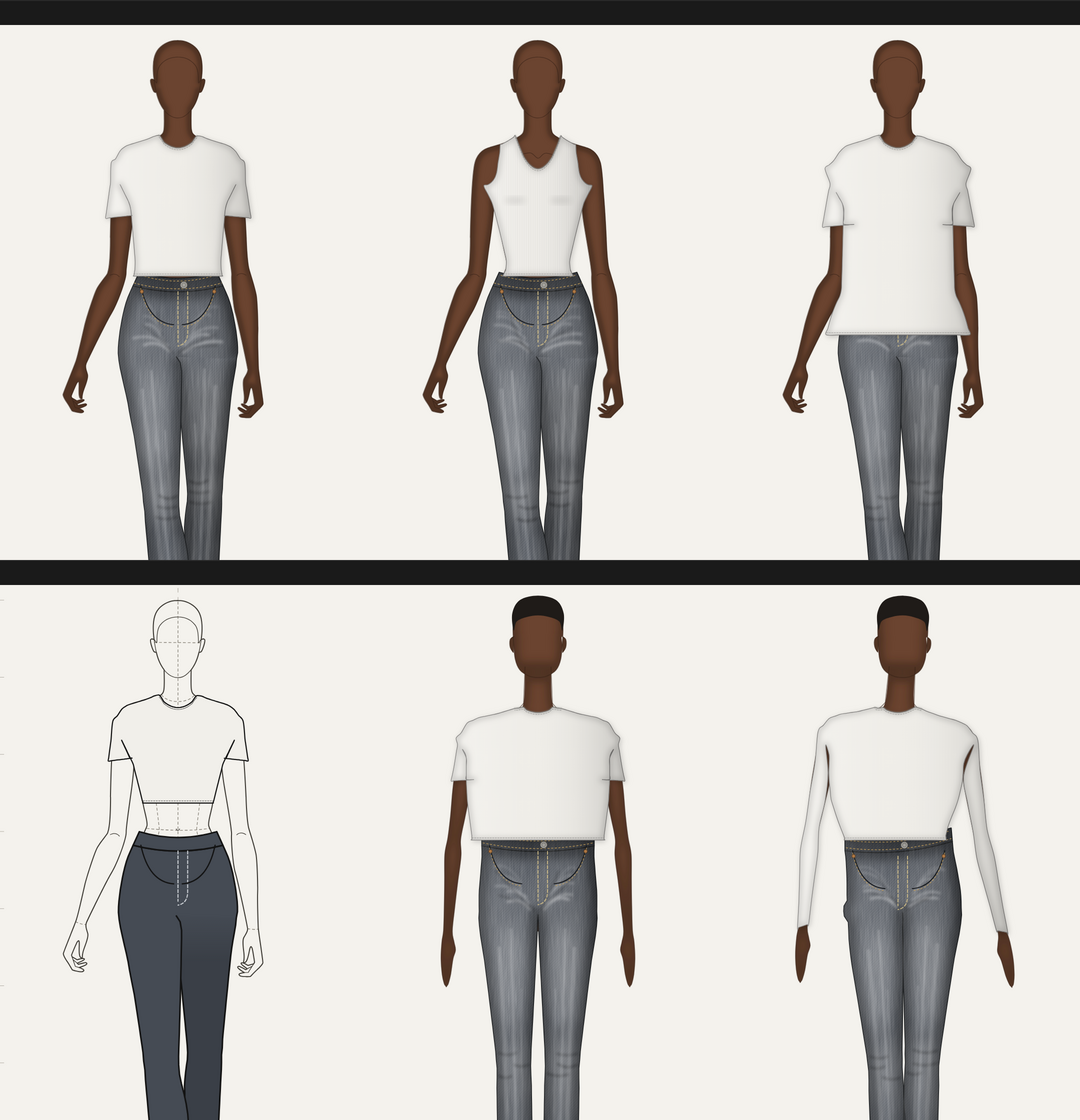
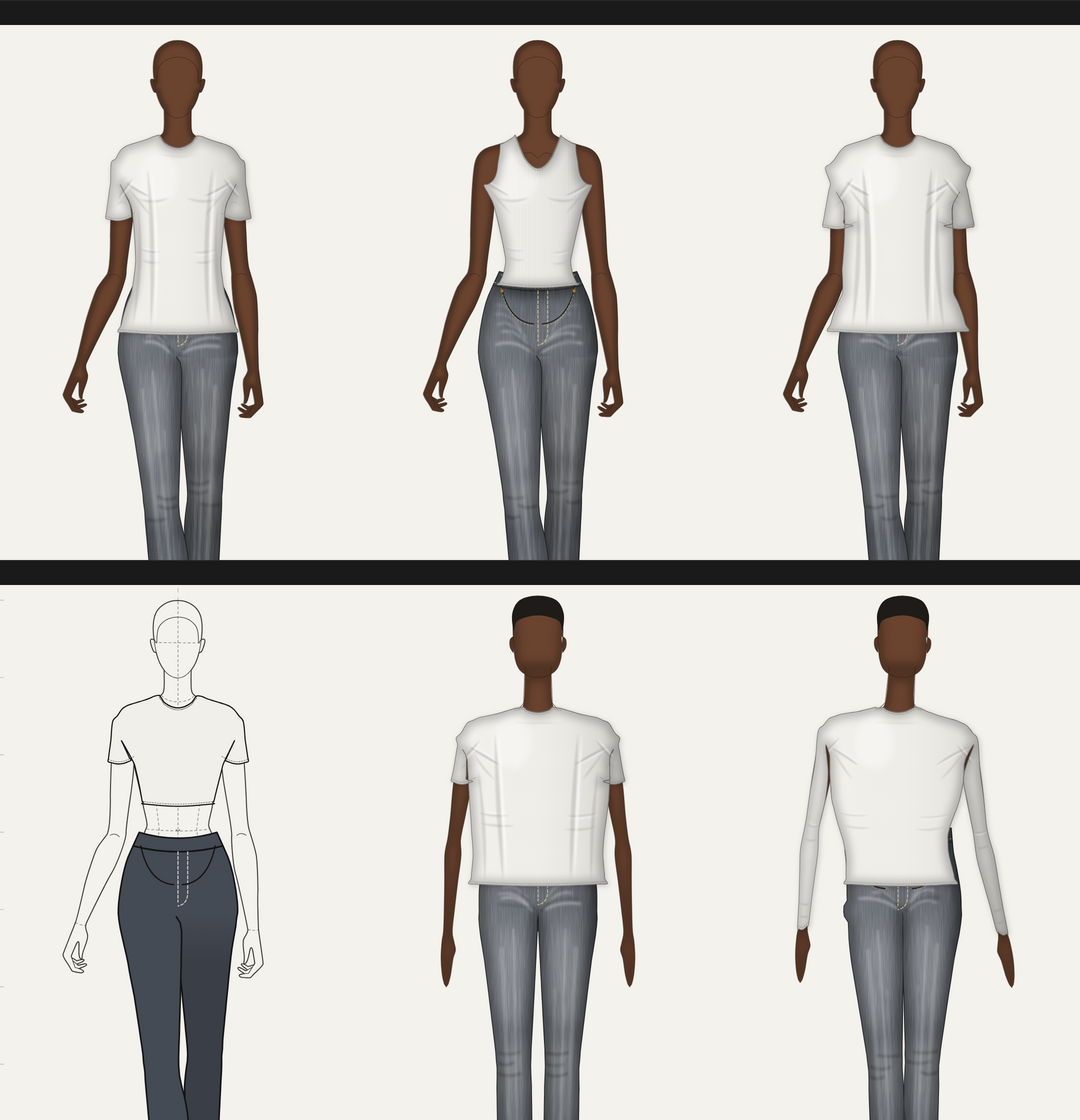
Tops lose the box shape
Curved body and sleeve hems, side seams that bow in and round off at the
hem, tapered fold shapes at the underarm, bust, waist, sleeves and elbows
that follow the body, drape folds on looser fits, and round shading so the
torso reads as a body. Tees and long sleeves default to hip length.

Claude-Session: https://claude.ai/code/session_01N4gmdzgjq2mCxibreUu9UH

diff --git a/src/components/TopView.tsx b/src/components/TopView.tsx
@@ -3,11 +3,40 @@ import { WASHES, isDarkWash, type Garment } from '../model/garment';
 import { smooth, type TorsoProfile, type Vec } from '../model/figure';
 import { stiffOf, topForward, topShape, torsoPt } from '../model/top';
 import { mix } from '../model/color';
+import { topFolds } from '../model/topFolds';
+import { uv } from '../model/top';
 import { polyPath, ripPoly, ripThreads, wornPatch } from '../model/rips';
 import { FabricDefs, fabricId } from './FabricDefs';
 
 const ACCENT = '#C8102E';
 const f1 = (n: number) => n.toFixed(1);
+/** Tapered ribbon along a curve: pointed ends, w wide in the middle. */
+function ribbon(c: Vec[], w: number, shift = 0): string {
+  if (c.length < 2) return '';
+  const L: Vec[] = [], R: Vec[] = [];
+  for (let i = 0; i < c.length; i++) {
+    const a = c[Math.max(0, i - 1)], b = c[Math.min(c.length - 1, i + 1)];
+    const dx = b.x - a.x, dy = b.y - a.y;
+    const len = Math.hypot(dx, dy) || 1;
+    const nx = dy / len, ny = -dx / len;
+    const f = i / (c.length - 1);
+    const hw = (w / 2) * Math.pow(Math.sin(Math.PI * f), 0.8);
+    L.push({ x: c[i].x + nx * (hw + shift), y: c[i].y + ny * (hw + shift) });
+    R.push({ x: c[i].x - nx * (hw - shift), y: c[i].y - ny * (hw - shift) });
+  }
+  return smooth([...L, ...R.reverse()], true);
+}
+
+/** Sample a 3-point fold as a smooth curve. */
+function sample(p: Vec[]): Vec[] {
+  const out: Vec[] = [];
+  for (let i = 0; i <= 14; i++) {
+    const k = i / 14;
+    out.push({ x: (1 - k) * (1 - k) * p[0].x + 2 * (1 - k) * k * p[1].x + k * k * p[2].x, y: (1 - k) * (1 - k) * p[0].y + 2 * (1 - k) * k * p[1].y + k * k * p[2].y });
+  }
+  return out;
+}
+
 const line = (pts: Vec[], closed = false) => (pts.length ? 'M' + pts.map((p) => `${f1(p.x)},${f1(p.y)}`).join(' L') + (closed ? ' Z' : '') : '');
 
 interface Props {
@@ -34,6 +63,9 @@ export const TopView = memo(function TopView({ g, t, rendered, shading, selected
   const xs = shape.outline.map((p) => p.x);
   const x0 = Math.min(...xs), x1 = Math.max(...xs);
   const fabricG = { ...g, points: shape.outline };
+  const hemP = g.points.find((p) => p.key === 'hemL');
+  const folds = g.top ? topFolds(g.id, g.top, hemP ? uv(hemP).v : 1, bust) : [];
+  const shadeC = mix(base, '#000000', dark ? 0.7 : 0.55);
   const fill = rendered ? `url(#${fabricId(g)})` : base;
   const holes = g.holes.map((h, i) => {
     const c = topForward(t, { x: h.x, y: h.y }, stiff);
@@ -57,6 +89,9 @@ export const TopView = memo(function TopView({ g, t, rendered, shading, selected
         <filter id={`tb-${uid}`} x="-20%" y="-20%" width="140%" height="140%">
           <feGaussianBlur stdDeviation={4} />
         </filter>
+        <filter id={`tf-${uid}`} x="-30%" y="-30%" width="160%" height="160%">
+          <feGaussianBlur stdDeviation={0.9} />
+        </filter>
         <filter id={`ts-${uid}`} x="-30%" y="-30%" width="160%" height="160%">
           <feGaussianBlur stdDeviation={1.8} />
         </filter>
@@ -73,23 +108,25 @@ export const TopView = memo(function TopView({ g, t, rendered, shading, selected
           <g clipPath={`url(#${clip})`} pointerEvents="none">
             <rect x={0} y={0} width={600} height={1000} fill={`url(#tl-${uid})`} />
             <path d={body} fill="none" stroke="#000" strokeWidth={7} opacity={dark ? 0.36 : 0.16} filter={`url(#tb-${uid})`} style={{ mixBlendMode: 'multiply' }} />
-            {bust && stiff < 0.3 && (
-              <g fill="#000" opacity={dark ? 0.18 : 0.08} filter={`url(#tb-${uid})`}>
-                <ellipse cx={F(-0.5, 0.47).x} cy={F(-0.5, 0.47).y} rx={14} ry={5} />
-                <ellipse cx={F(0.5, 0.47).x} cy={F(0.5, 0.47).y} rx={14} ry={5} />
-              </g>
-            )}
-            {/* tension folds from the underarm, and drape on looser fits */}
-            <g fill="none" stroke="#000" strokeLinecap="round" opacity={dark ? 0.32 : 0.2} filter={`url(#ts-${uid})`}>
-              {g.top?.tuck && <path d={line([F(-0.6, 1.02), F(-0.3, 0.98), F(0, 1.03), F(0.3, 0.98), F(0.6, 1.02)])} strokeWidth={2} />}
-            </g>
+            {/* round shading: darker toward the sides so the torso reads as a body */}
+            <path d={body} fill="none" stroke="#000" strokeWidth={22} opacity={dark ? 0.22 : 0.1} filter={`url(#tb-${uid})`} style={{ mixBlendMode: 'multiply' }} />
+            <ellipse cx={F(-0.35, 0.3).x} cy={F(-0.35, 0.3).y} rx={26} ry={34} fill="#fff" opacity={dark ? 0.08 : 0.35} filter={`url(#tb-${uid})`} />
+            {folds.map((fd, i) => {
+              const c = sample(fd.pts.map((p) => topForward(t, p, stiff)));
+              return (
+                <g key={i}>
+                  <path d={ribbon(c, fd.w)} fill={shadeC} opacity={fd.o * (dark ? 1.3 : 1)} filter={`url(#tf-${uid})`} />
+                  {fd.ridge && <path d={ribbon(c, fd.w * 0.7, fd.w * 0.9)} fill="#fff" opacity={dark ? 0.1 : 0.55} filter={`url(#tf-${uid})`} />}
+                </g>
+              );
+            })}
           </g>
         )}
         {/* neckline binding, sleeve and body hems */}
         <g fill="none" pointerEvents="none" strokeLinecap="round">
           <path d={line(shape.neckline)} stroke={outline} strokeWidth={rendered ? 3.2 : 1.2} opacity={rendered ? 0.22 : 1} />
           <path d={line(shape.neckline)} stroke={outline} strokeWidth={0.7} strokeDasharray={rendered ? '2 1.4' : undefined} transform="translate(0 2.6)" opacity={0.7} />
-          {shape.hems.filter((h) => h.length > 2).map((h, i) => (
+          {shape.hems.map((h, i) => (
             <path key={i} d={line(h)} stroke={outline} strokeWidth={0.7} strokeDasharray="2 1.4" transform={`translate(0 ${-2.8})`} opacity={0.65} />
           ))}
         </g>

diff --git a/src/model/top.ts b/src/model/top.ts
@@ -30,11 +30,11 @@ const armPt = (side: 'armL' | 'armR', a: number, o: number, key?: string): Pt =>
 export const uv = (p: { x: number; y: number }) => ({ u: (p.x - 150) / 100, v: (p.y - 100) / 200 });
 
 const EASE: Record<TopFit, { body: number; waist: number; sleeve: number; shoulder: number; drop: number }> = {
-  Fitted: { body: 1.04, waist: 1.0, sleeve: 1.1, shoulder: 1.04, drop: 0 },
+  Fitted: { body: 1.04, waist: 1.04, sleeve: 1.1, shoulder: 1.04, drop: 0 },
   Regular: { body: 1.1, waist: 1.1, sleeve: 1.26, shoulder: 1.07, drop: 0.03 },
   Oversized: { body: 1.26, waist: 1.3, sleeve: 1.55, shoulder: 1.2, drop: 0.12 },
 };
-const LENGTH_V: Record<TopLength, number> = { Crop: 0.8, Waist: 1.04, Hip: 1.42, Long: 1.7 };
+const LENGTH_V: Record<TopLength, number> = { Crop: 0.8, Waist: 1.1, Hip: 1.4, Long: 1.7 };
 const NECK_V: Record<NeckKind, number> = { Crew: 0.07, Scoop: 0.17, V: 0.27 };
 
 /** Keyed outline points, clockwise from the left neck, ending at the front neck point. */
@@ -274,6 +274,39 @@ export function topShape(t: TorsoProfile, points: Pt[], stiff = 0): TopShape {
         const strap = /^strap/.test(key(a)) ? a : b, pit = strap === a ? b : a;
         const c = torsoPt(uv(strap).u * 1.02, uv(pit).v * 0.92);
         for (let k = 1; k < cnt; k++) steps.push(quad(a, c, b, k / cnt));
+      } else if (key(a) === 'hemL' && key(b) === 'hemR') {
+        // body hem: dips a touch at the centre front and rolls up at the side seams
+        const cnt2 = 16;
+        for (let k = 1; k < cnt2; k++) {
+          const f = k / cnt2;
+          const p = lerpPt(a, b, f);
+          steps.push({ ...p, y: p.y + 4 * Math.sin(Math.PI * f) });
+        }
+      } else if (a.r && a.r === b.r && /^sl/.test(key(a)) && /^sl/.test(key(b))) {
+        // sleeve hem: curves around the arm
+        for (let k = 1; k < 8; k++) {
+          const f = k / 8;
+          const p = lerpPt(a, b, f);
+          steps.push({ ...p, x: p.x + 4 * Math.sin(Math.PI * f) });
+        }
+      } else if (!a.r && /^(arm|side)/.test(key(a)) && /^(side|hem)/.test(key(b))) {
+        // side seams bow in a little and the hem corner rounds off, so the body is not a box
+        const sgn = Math.sign(uv(a).u) || 1;
+        const toHem = /^hem/.test(key(b));
+        for (let k = 1; k < cnt; k++) {
+          const f = k / cnt;
+          const p = lerpPt(a, b, f);
+          const bow = 3.5 * Math.sin(Math.PI * f);
+          const corner = toHem ? 4 * Math.pow(f, 5) : 0;
+          steps.push({ ...p, x: p.x - sgn * (bow + corner) });
+        }
+      } else if (!a.r && /^hem/.test(key(a)) && /^side/.test(key(b))) {
+        const sgn = Math.sign(uv(a).u) || 1;
+        for (let k = 1; k < cnt; k++) {
+          const f = k / cnt;
+          const p = lerpPt(a, b, f);
+          steps.push({ ...p, x: p.x - sgn * (3.5 * Math.sin(Math.PI * f) + 4 * Math.pow(1 - f, 5)) });
+        }
       } else {
         for (let k = 1; k < cnt; k++) steps.push(lerpPt(a, b, k / cnt));
       }
@@ -297,7 +330,7 @@ export function topShape(t: TorsoProfile, points: Pt[], stiff = 0): TopShape {
     index[i] = outline.length;
     outline.push(F(a));
     steps.forEach((p) => outline.push(F(p)));
-    if ((key(a) === 'slOL' && key(b) === 'slIL') || (key(a) === 'slIR' && key(b) === 'slOR')) hems.push([F(a), F(b)]);
+    if ((key(a) === 'slOL' && key(b) === 'slIL') || (key(a) === 'slIR' && key(b) === 'slOR')) hems.push([F(a), ...steps.map(F), F(b)]);
     if (key(a) === 'hemL' && key(b) === 'hemR') hems.push([F(a), ...steps.map(F), F(b)]);
     if (a.r === 'armL' || b.r === 'armL') sleeveRun.L.push(F(a), ...steps.map(F));
     if (a.r === 'armR' || b.r === 'armR') sleeveRun.R.push(F(a), ...steps.map(F));

diff --git a/src/model/topFolds.ts b/src/model/topFolds.ts
@@ -1,0 +1,69 @@
+// Fold shapes for tops, defined on the body (u across, v down for the torso; a along, o across for
+// sleeves) so they follow the croquis and pose. Each fold is drawn as a tapered ribbon, thick in the
+// middle and pointed at both ends, which is how folds read in a fashion drawing.
+
+import { rng } from './rng';
+import type { TopOpts } from './top';
+import type { Pt } from './garment';
+
+export interface Fold {
+  pts: Pt[];
+  /** Widest point of the ribbon, canvas units. */
+  w: number;
+  /** Darkness, 0..1. */
+  o: number;
+  /** Light ridge drawn alongside. */
+  ridge: boolean;
+}
+
+const T = (u: number, v: number): Pt => ({ x: 150 + u * 100, y: 100 + v * 200 });
+const A = (side: 'armL' | 'armR', a: number, o: number): Pt => ({ x: a * 100, y: 100 + o * 100, r: side });
+
+export function topFolds(id: string, o: TopOpts, hemV: number, bust: boolean): Fold[] {
+  const r = rng(id + ':tfold');
+  const out: Fold[] = [];
+  const j = (n: number) => (r() - 0.5) * n;
+  const loose = o.fit === 'Oversized' ? 1 : o.fit === 'Regular' ? 0.5 : 0;
+  const sleeved = o.block !== 'Tank';
+
+  for (const s of [-1, 1] as const) {
+    // pull from the underarm toward the bust or chest
+    out.push({ pts: [T(s * 0.98, 0.33), T(s * (0.8 + j(0.05)), 0.4), T(s * (0.58 + j(0.06)), bust ? 0.44 : 0.47)], w: 2.6 + loose, o: 0.3, ridge: true });
+    out.push({ pts: [T(s * 0.97, 0.38), T(s * 0.82, 0.5 + j(0.03)), T(s * (0.66 + j(0.05)), 0.58)], w: 2 + loose, o: 0.22, ridge: false });
+    if (bust && loose < 1) out.push({ pts: [T(s * 0.86, 0.46), T(s * 0.55, 0.5), T(s * 0.18, 0.45)], w: 3.2, o: 0.2, ridge: false });
+    // gather at the waist where a fitted or regular top bunches
+    if (hemV > 0.9 && loose < 1) {
+      for (let k = 0; k < 2; k++) {
+        const v = Math.min(hemV - 0.06, 0.86 + k * 0.08 + j(0.03));
+        out.push({ pts: [T(s * 0.95, v - 0.02), T(s * (0.7 + j(0.08)), v + 0.015), T(s * (0.42 + j(0.1)), v)], w: 2 + loose * 1.5, o: 0.2, ridge: k === 0 });
+      }
+    }
+    // looser fits: long drape folds falling from the shoulder blade toward the hem
+    if (loose > 0) {
+      const u0 = s * (0.55 + j(0.1));
+      out.push({ pts: [T(u0, 0.22), T(u0 + s * 0.05 + j(0.05), (0.22 + hemV) / 2), T(u0 + s * 0.02, hemV - 0.03)], w: 4 + loose * 4, o: 0.16 + loose * 0.08, ridge: true });
+      out.push({ pts: [T(s * 0.92, 0.5), T(s * (0.86 + j(0.04)), (0.5 + hemV) / 2), T(s * 0.88, hemV - 0.02)], w: 3 + loose * 3, o: 0.2, ridge: false });
+    }
+    if (sleeved) {
+      const side = s < 0 ? 'armL' : 'armR';
+      const len = o.block === 'Long sleeve' ? 2 : 0.4;
+      // folds radiating from the armpit across the sleeve
+      out.push({ pts: [A(side, 0.05, 0.85), A(side, 0.16, 0.25), A(side, 0.26 + j(0.04), -0.35)], w: 2.4 + loose, o: 0.26, ridge: true });
+      if (len > 1) {
+        // elbow and wrist stacking on long sleeves
+        for (const a0 of [0.9, 1.05, 1.75, 1.88]) out.push({ pts: [A(side, a0, -0.9), A(side, a0 + 0.04 + j(0.03), 0), A(side, a0, 0.9)], w: 2, o: 0.24, ridge: a0 < 1 });
+      } else {
+        out.push({ pts: [A(side, len - 0.06, 0.6), A(side, len * 0.6, 0.05), A(side, len - 0.04, -0.6)], w: 1.8, o: 0.18, ridge: false });
+      }
+    }
+  }
+  // collar bone drag under the neckline
+  out.push({ pts: [T(-0.32, 0.12), T(0, 0.16 + (o.neck === 'Crew' ? 0 : 0.08)), T(0.32, 0.12)], w: 1.8, o: 0.12, ridge: false });
+  if (o.tuck) {
+    for (let k = 0; k < 5; k++) {
+      const u = -0.8 + k * 0.4 + j(0.1);
+      out.push({ pts: [T(u - 0.05, 0.95), T(u + 0.02, 1.03), T(u, 1.1)], w: 3, o: 0.24, ridge: true });
+    }
+  }
+  return out;
+}

diff --git a/src/components/LeftPanel.tsx b/src/components/LeftPanel.tsx
@@ -62,9 +62,9 @@ function BasePanel() {
 const TOP_ITEMS: { name: string; o: TopOpts; icon: string }[] = [
   { name: 'Tank', o: { block: 'Tank', fit: 'Fitted', length: 'Waist', neck: 'Scoop', tuck: false }, icon: 'M14,6 L17,6 Q20,16 23,6 L26,6 L28,20 L29,46 L11,46 L12,20 Z' },
   { name: 'Baby tee', o: { block: 'Tee', fit: 'Fitted', length: 'Crop', neck: 'Crew', tuck: false }, icon: 'M14,10 Q20,14 26,10 L33,14 L31,22 L27,20 L27,36 L13,36 L13,20 L9,22 L7,14 Z' },
-  { name: 'Tee', o: { block: 'Tee', fit: 'Regular', length: 'Waist', neck: 'Crew', tuck: false }, icon: 'M14,8 Q20,12 26,8 L34,13 L31,23 L27,21 L28,46 L12,46 L13,21 L9,23 L6,13 Z' },
+  { name: 'Tee', o: { block: 'Tee', fit: 'Regular', length: 'Hip', neck: 'Crew', tuck: false }, icon: 'M14,8 Q20,12 26,8 L34,13 L31,23 L27,21 L28,46 L12,46 L13,21 L9,23 L6,13 Z' },
   { name: 'Oversized', o: { block: 'Tee', fit: 'Oversized', length: 'Hip', neck: 'Crew', tuck: false }, icon: 'M13,8 Q20,12 27,8 L37,15 L33,27 L29,25 L30,50 L10,50 L11,25 L7,27 L3,15 Z' },
-  { name: 'Long sleeve', o: { block: 'Long sleeve', fit: 'Fitted', length: 'Waist', neck: 'Crew', tuck: false }, icon: 'M14,8 Q20,12 26,8 L32,12 L36,44 L32,45 L27,20 L27,46 L13,46 L13,20 L8,45 L4,44 L8,12 Z' },
+  { name: 'Long sleeve', o: { block: 'Long sleeve', fit: 'Fitted', length: 'Hip', neck: 'Crew', tuck: false }, icon: 'M14,8 Q20,12 26,8 L32,12 L36,44 L32,45 L27,20 L27,46 L13,46 L13,20 L8,45 L4,44 L8,12 Z' },
 ];
 
 function LibraryPanel() {
